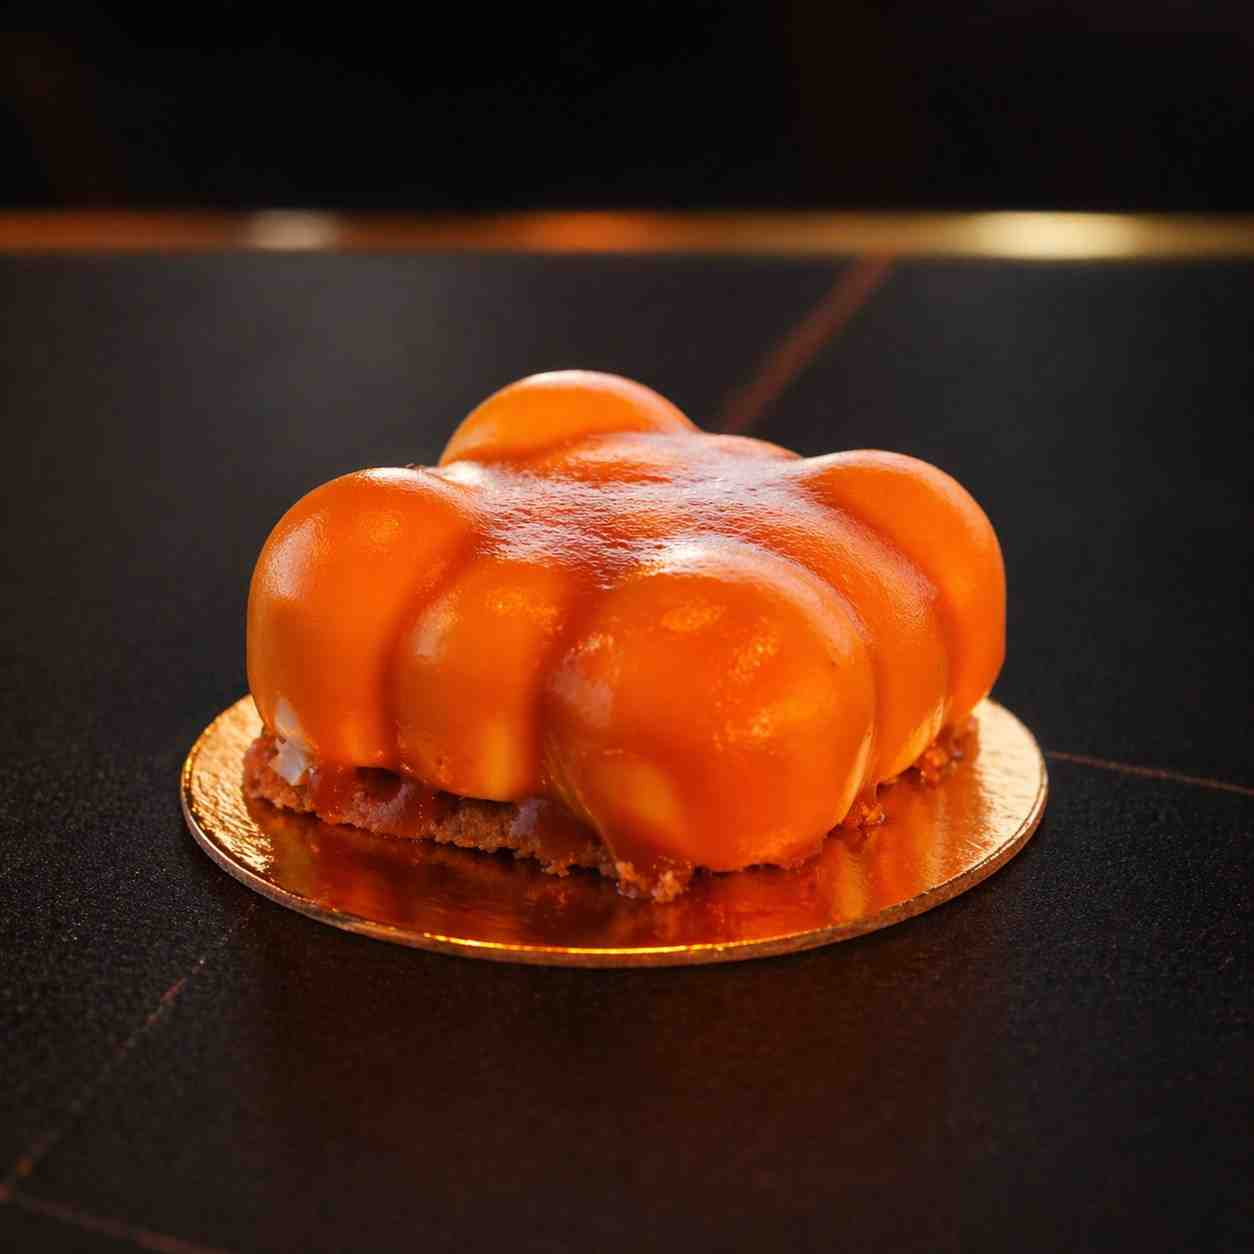
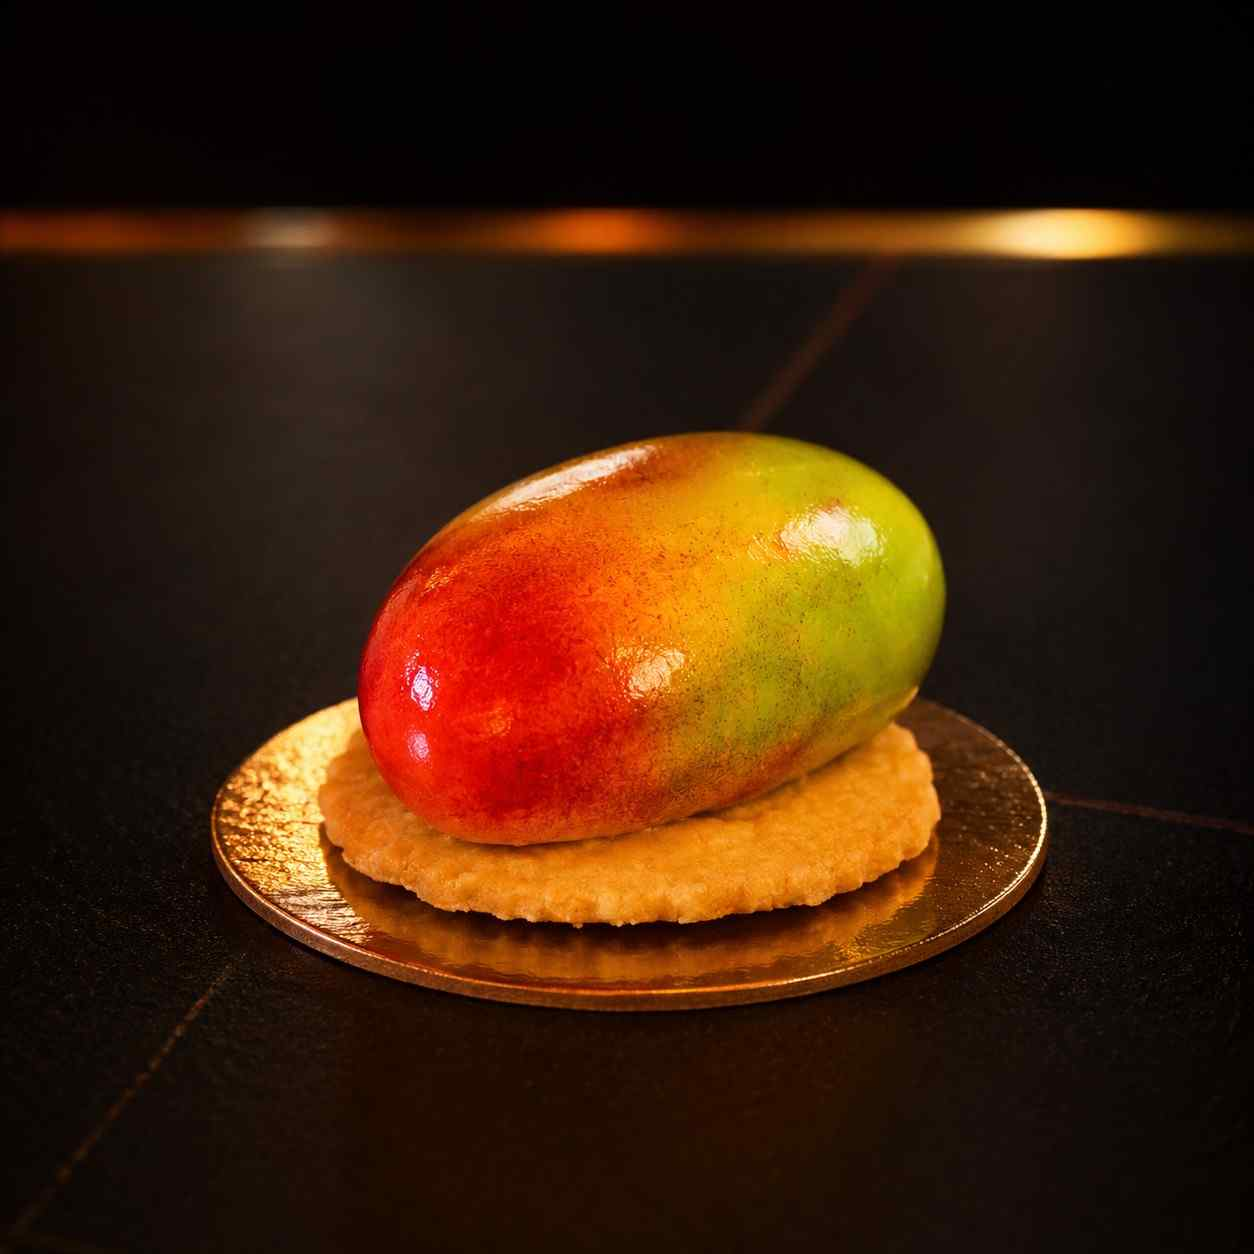
Trigger redeploy

diff --git a/src/pages/Menu.tsx b/src/pages/Menu.tsx
@@ -602,7 +602,73 @@ export default function MenuPage() {
                           </div>
                         ))}
                       </div>
-                    ) : activeCategory === "Drinks" ? (
+                    ) : activeCategory === "Desserts" ? (
+  (() => {
+    const dessertCard = (item: MenuItem) => (
+      <div
+        key={item.id}
+        tabIndex={0}
+        role="button"
+        aria-label={`View details for ${item.name}`}
+        onClick={() => setModalStack([item])}
+        onKeyDown={(e) => (e.key === "Enter" || e.key === " ") && setModalStack([item])}
+        className="card-luxury cursor-pointer group focus:outline-none focus:ring-2 focus:ring-primary"
+      >
+        {item.image && (
+          <div className="relative aspect-[4/3] overflow-hidden">
+            <img src={item.image} alt={item.name} className="w-full h-full object-cover transition-transform duration-700 group-hover:scale-110" />
+            <div className="absolute inset-0 bg-gradient-to-t from-background/80 to-transparent" />
+            <div className="absolute top-4 left-4 flex gap-2">
+              {item.isNew && <span className="bg-primary text-primary-foreground text-xs px-3 py-1 rounded">New</span>}
+              {item.isPopular && <span className="bg-foreground text-background text-xs px-3 py-1 rounded">Popular</span>}
+            </div>
+          </div>
+        )}
+        <div className="p-6">
+          <div className="flex items-start justify-between gap-2">
+            <h3 className="font-serif text-xl group-hover:text-primary transition-colors">{item.name}</h3>
+            {/* Price hidden intentionally */}
+          </div>
+          <p className="text-sm text-muted-foreground line-clamp-2 mt-1">{item.description}</p>
+          <div className="mt-3 text-xs text-primary uppercase tracking-wider">{item.subCategory}</div>
+        </div>
+      </div>
+    );
+
+    const cheesecakeItems = filteredItems.filter(item => item.subCategory === "Cheesecakes");
+    const tiramisuItems = filteredItems.filter(item => item.subCategory === "Tiramisu");
+
+    return (
+      <div className="space-y-12">
+        {/* Cheesecakes */}
+        {cheesecakeItems.length > 0 && (
+          <div>
+            <div className="mb-6">
+              <h3 className="font-serif text-2xl text-foreground">Cheesecakes</h3>
+              <div className="gold-divider w-10 mt-2" />
+            </div>
+            <div className="grid grid-cols-1 md:grid-cols-2 lg:grid-cols-3 gap-6">
+              {cheesecakeItems.map(dessertCard)}
+            </div>
+          </div>
+        )}
+
+        {/* Tiramisu */}
+        {tiramisuItems.length > 0 && (
+          <div>
+            <div className="mb-6">
+              <h3 className="font-serif text-2xl text-foreground">Tiramisu</h3>
+              <div className="gold-divider w-10 mt-2" />
+            </div>
+            <div className="grid grid-cols-1 md:grid-cols-2 lg:grid-cols-3 gap-6">
+              {tiramisuItems.map(dessertCard)}
+            </div>
+          </div>
+        )}
+      </div>
+    );
+  })()
+) : activeCategory === "Drinks" ? (
   (() => {
     const shakeCard = (item: MenuItem) => (
       <div

diff --git a/src/lib/desserts-data.ts b/src/lib/desserts-data.ts
@@ -10,8 +10,10 @@ import imgBiscoffTiramisu from "@/assets/biscoff-tiramisu.jpeg";
 import imgCoconutTiramisu from "@/assets/coconut-tiramisu.jpeg";
 import imgBlueberryTiramisu from "@/assets/blueberry-tiramisu.jpeg";
 import imgClassicTiramisu from "@/assets/classic-tiramisu.jpeg";
+import imgStrawberryCheesecake from "@/assets/strawberry-cheesecake.jpeg";
 
 export const desserts: Record<string, MenuItem[]> = {
+  // ============ CHEESECAKES ============
   Cheesecakes: [
     {
       id: 40,
@@ -58,7 +60,24 @@ export const desserts: Record<string, MenuItem[]> = {
       allergens: ["milk", "eggs", "gluten", "tree-nuts"],
       dietary: ["vegetarian"],
     },
+    {
+      id: 43,
+      name: "Strawberry Cheesecake",
+      description:
+        "Cheesecake topped with strawberry. 133g. Contains milk, egg, gluten.",
+      price: 5.99,
+      image: imgStrawberryCheesecake,
+      category: "Desserts",
+      subCategory: "Cheesecakes",
+      heatLevel: 0,
+      saucePairings: [],
+      customizations: [],
+      allergens: ["milk", "eggs", "gluten"],
+      dietary: ["vegetarian", "nut-free"],
+    },
   ],
+
+  // ============ TIRAMISU ============
   Tiramisu: [
     {
       id: 50,